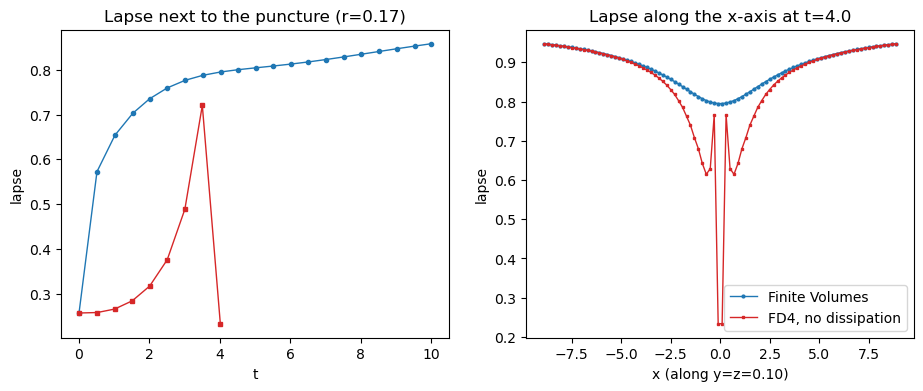
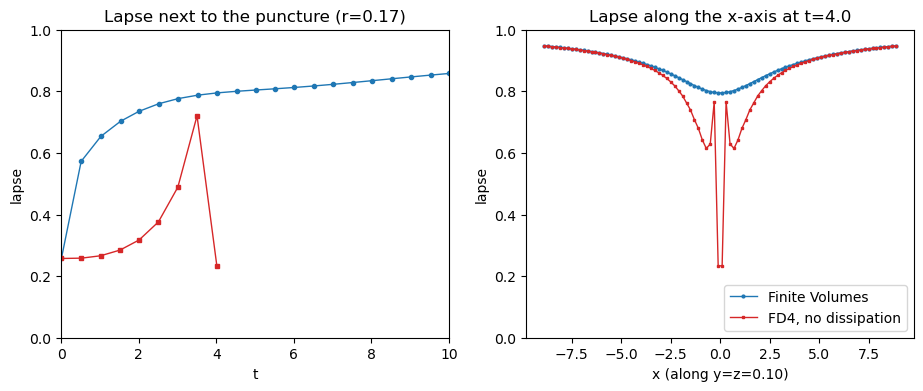
ExaGRyPE tutorials: 523 compares Kreiss-Oliger dissipation with sigma=0.3, 1 and 8
All Finite Difference runs collapse before t=10. The dissipation delays
the collapse from t=4.1 to t=4.3, 4.5 and 5.4. With sigma=8, the spike
at the puncture disappears, but the run still collapses. The tutorial
tabulates the outcome and the cost (16-24% per time step), and names
lopsided stencils, the moving puncture gauge and a finer mesh as the
next steps. The illustration script compiles with make -j4 and clips
the collapsed snapshots in its pictures.

diff --git a/tutorials/exahype2/exagrype/illustrations/523_higher-order-fd.py b/tutorials/exahype2/exagrype/illustrations/523_higher-order-fd.py
@@ -316,6 +316,10 @@ def plot_over_time_and_profile(runs, names, file_name):
     axes[1].set_title(
         "Lapse along the x-axis at t={:.1f}".format(runs[names[0]]["t"][last])
     )
+    # Runs which collapse write nonsensical values into their last snapshot
+    for ax in axes:
+        ax.set_ylim(0.0, 1.0)
+    axes[0].set_xlim(0.0, max(runs[name]["t"][-1] for name in names))
     axes[1].legend(loc="lower right")
     fig.savefig(os.path.join(Here, file_name), dpi=100, bbox_inches="tight")
     plt.close(fig)
